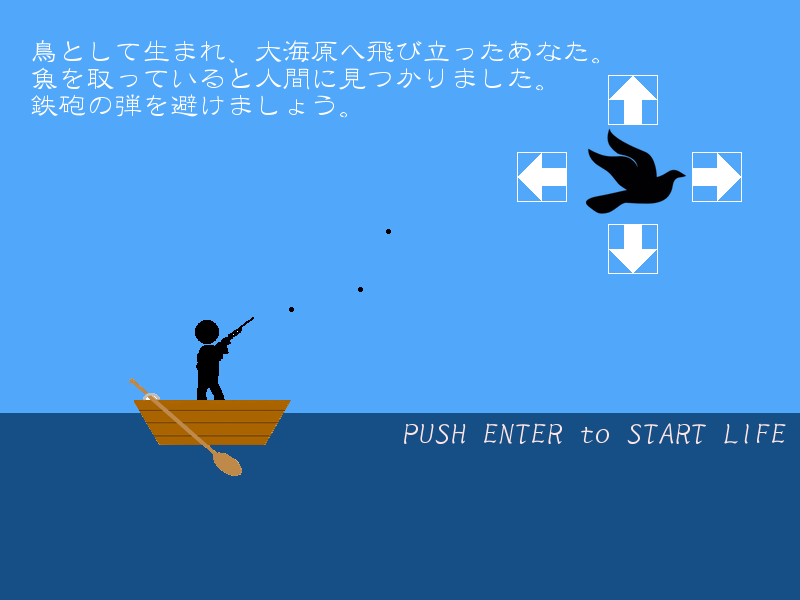
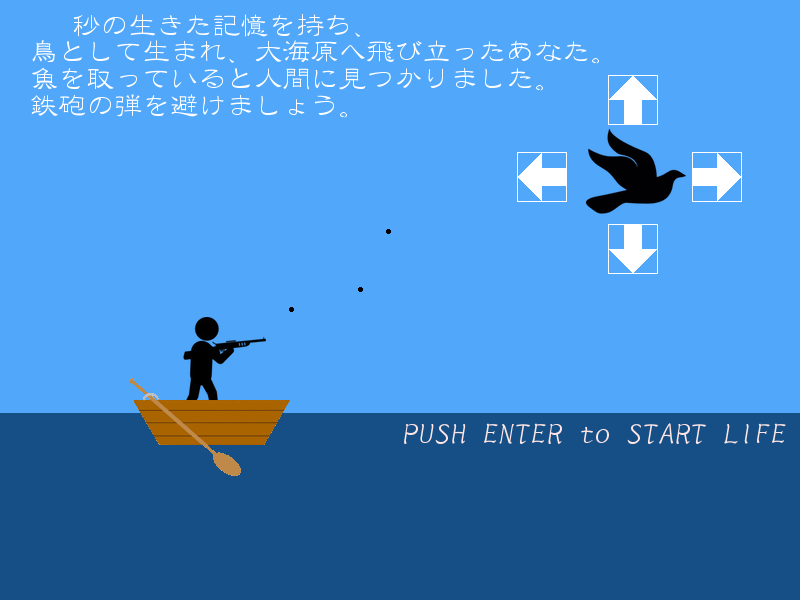
scoreの表示

Changed region(s): [[0.2188, 0.51, 0.3438, 0.69], [0.0938, 0.03, 0.4375, 0.06]]

diff --git a/contents/scenes/fishGameBefore/director.rb b/contents/scenes/fishGameBefore/director.rb
@@ -7,14 +7,14 @@ module Scene1
       @bg_img = Image.load("images/storyback/ftob.png")
       @bgm = Sound.new("sounds/title.wav")
       @bgm_played = false
-      @font=Font.new(32)
+      @font=Font.new(28)
       @score = Score.new()
     end
 
     def play
       Window.draw(0, 0, @bg_img)
       @total_score = @score.total.to_i
-      Window.draw_font(10,10,"あなたが前世までいきた時間：#{@total_score}秒",@font)
+      Window.draw_font(355,10,"#{@total_score}",@font)
       unless @bgm_played
         @bgm.play
         @bgm_played = true

diff --git a/contents/scenes/birdGameBefore/director.rb b/contents/scenes/birdGameBefore/director.rb
@@ -7,14 +7,14 @@ module Scene2
       @bg_img = Image.load("images/storyback/btoh.png")
       @bgm = Sound.new("sounds/title.wav")
       @bgm_played = false
-      @font=Font.new(32)
+      @font=Font.new(28)
       @score = Score.new()
     end
 
     def play
       Window.draw(0, 0, @bg_img)
       @total_score = @score.total.to_i
-      Window.draw_font(10,10,"あなたが前世までいきた時間：#{@total_score}秒",@font)
+      Window.draw_font(30,10,"#{@total_score}",@font)
       unless @bgm_played
         @bgm.play
         @bgm_played = true
